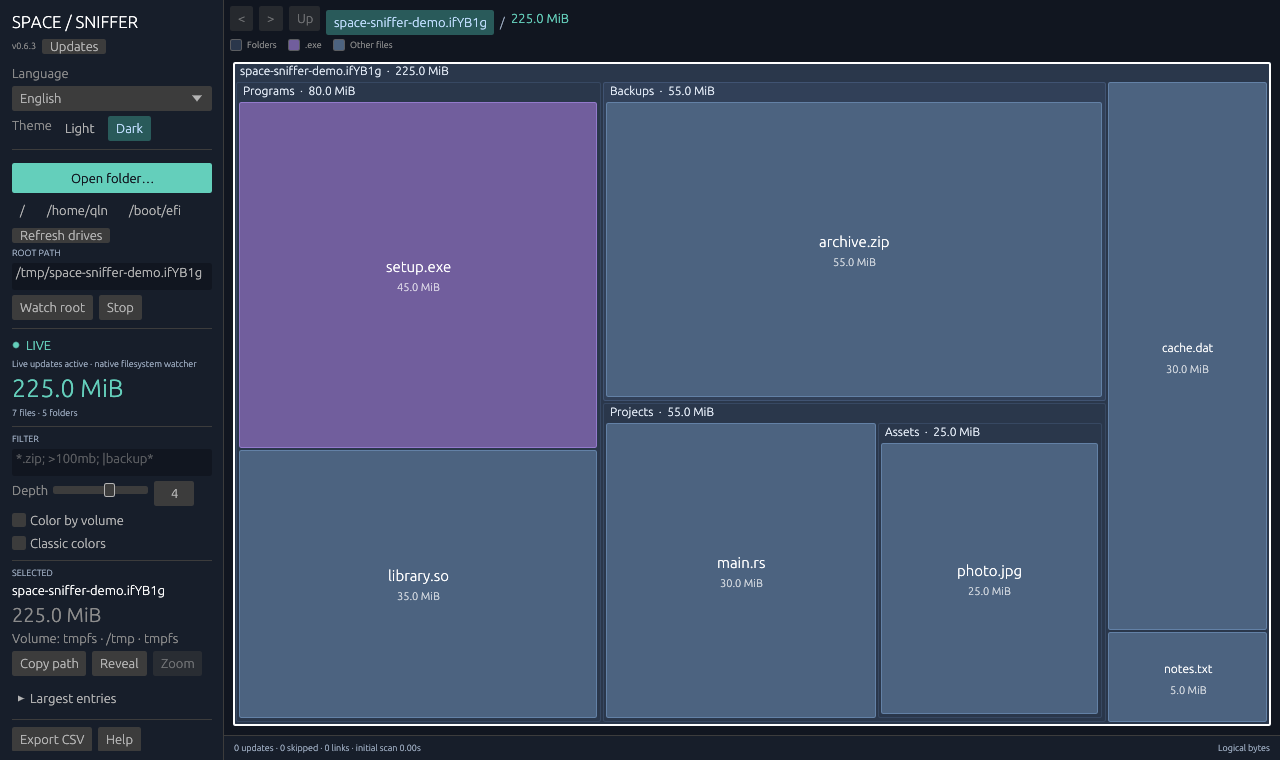
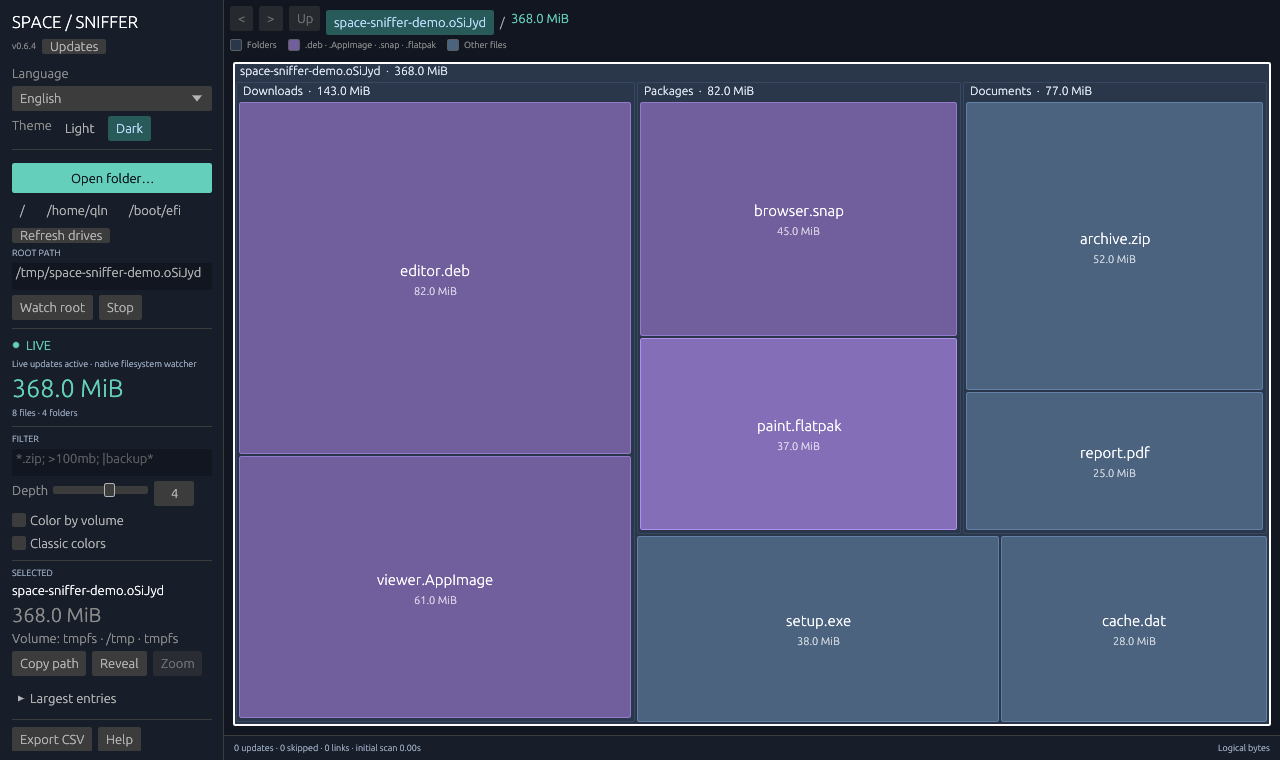
Release Space Sniffer v0.6.4
Highlight Linux application packages and portable apps in the treemap.

diff --git a/src/app.rs b/src/app.rs
@@ -1430,11 +1430,12 @@ impl App {
     fn file_legend(&self, ui: &mut egui::Ui) {
         let language = self.preferences.language;
         let colors = MAP_PALETTES[usize::from(self.classic)];
+        let application_formats = APP_SUFFIXES.join(" · ");
         ui.horizontal_wrapped(|ui| {
             ui.spacing_mut().item_spacing.x = 12.0;
             for (color, label) in [
                 (colors.folder, language.text("Folders")),
-                (colors.exe, ".exe"),
+                (colors.application, application_formats.as_str()),
                 (colors.file, language.text("Other files")),
             ] {
                 ui.horizontal(|ui| {
@@ -1942,34 +1943,41 @@ fn volume_color(index: usize) -> Color32 {
 #[derive(Clone, Copy)]
 struct MapPalette {
     folder: Color32,
-    exe: Color32,
+    application: Color32,
     file: Color32,
 }
+
+const APP_SUFFIXES: &[&str] = if cfg!(target_os = "linux") {
+    &[".deb", ".AppImage", ".snap", ".flatpak"]
+} else {
+    &[".exe"]
+};
 
 const MAP_PALETTES: [MapPalette; 2] = [
     MapPalette {
         folder: Color32::from_rgb(42, 55, 75),
-        exe: Color32::from_rgb(113, 94, 157),
+        application: Color32::from_rgb(113, 94, 157),
         file: Color32::from_rgb(76, 99, 128),
     },
     MapPalette {
         folder: Color32::from_rgb(145, 108, 70),
-        exe: Color32::from_rgb(81, 128, 169),
+        application: Color32::from_rgb(81, 128, 169),
         file: Color32::from_rgb(174, 133, 88),
     },
 ];
 
 fn tile_colors(node: &Node) -> [Color32; 2] {
-    let is_exe = node.kind == EntryKind::File
-        && node
-            .path
-            .extension()
-            .is_some_and(|ext| ext.eq_ignore_ascii_case("exe"));
+    let is_application = node.kind == EntryKind::File
+        && node.path.extension().is_some_and(|extension| {
+            APP_SUFFIXES
+                .iter()
+                .any(|suffix| extension.eq_ignore_ascii_case(&suffix[1..]))
+        });
     MAP_PALETTES.map(|palette| {
         if node.is_dir() {
             palette.folder
-        } else if is_exe {
-            palette.exe
+        } else if is_application {
+            palette.application
         } else {
             palette.file
         }
@@ -1981,22 +1989,42 @@ mod tests {
     use super::*;
 
     #[test]
-    fn file_palette_distinguishes_folders_exes_and_other_files() {
+    fn file_palette_uses_application_formats_for_the_current_platform() {
         let tree = tree(0);
         let mut folder = tree.nodes[1].clone();
-        folder.path.set_file_name("folder.exe");
+        folder
+            .path
+            .set_file_name(format!("folder{}", APP_SUFFIXES[0]));
         assert_eq!(
             tile_colors(&folder),
             MAP_PALETTES.map(|palette| palette.folder)
         );
 
         let mut file = tree.nodes[2].clone();
-        for name in ["archive.zip", "library.so", "notes.txt", "no-extension"] {
+        let (application_files, foreign_format): (&[&str], &str) = if cfg!(target_os = "linux") {
+            (
+                &[
+                    "setup.DEB",
+                    "viewer.AppImage",
+                    "browser.snap",
+                    "editor.flatpak",
+                ],
+                "setup.exe",
+            )
+        } else {
+            (&["setup.EXE"], "package.deb")
+        };
+        for name in ["archive.zip", "library.so", "no-extension", foreign_format] {
             file.path.set_file_name(name);
             assert_eq!(tile_colors(&file), MAP_PALETTES.map(|palette| palette.file));
         }
-        file.path.set_file_name("setup.EXE");
-        assert_eq!(tile_colors(&file), MAP_PALETTES.map(|palette| palette.exe));
+        for name in application_files {
+            file.path.set_file_name(name);
+            assert_eq!(
+                tile_colors(&file),
+                MAP_PALETTES.map(|palette| palette.application)
+            );
+        }
     }
 
     #[test]

diff --git a/README.md b/README.md
@@ -6,9 +6,9 @@ A native, live disk usage explorer written in Rust with [egui](https://github.co
 
 [Download Windows .exe / Ubuntu .deb](https://github.com/siarheisinelnikau/space-sniffer/releases/latest) · [Ubuntu build and install](docs/ubuntu.md) · [Performance notes](docs/performance.md)
 
-![Space Sniffer on Ubuntu with dark-blue folders, purple EXE files, and gray-blue files](docs/screenshot.png)
+![Space Sniffer on Ubuntu with dark-blue folders, purple application packages, and gray-blue files](docs/screenshot.png)
 
-Space Sniffer 0.6.3 on Ubuntu, rendered by the application with an isolated sample folder. The key above the map identifies the three colors.
+Space Sniffer 0.6.4 on Ubuntu, rendered by the application with an isolated sample folder. The key above the map identifies the three colors.
 
 This is an independent implementation inspired by [SpaceSniffer by Uderzo Software](https://www.uderzo.it/main_products/space_sniffer/). It is not affiliated with Uderzo Software and does not use the original application's source code or assets.
 
@@ -144,7 +144,7 @@ Large filters show **Filtering** progress while the previous filter stays visibl
 | **Classic** | Switch the treemap palette |
 | **Copy path** / **Reveal** | Copy the selection's path / open the system file manager |
 
-The key above the map shows three colors. In the default palette, folders are dark blue, `.exe` files are purple, and all other files are gray-blue. **Classic** uses the same categories with different colors. With **Color by volume** enabled, use **Volumes in view** for the color key.
+The key above the map shows three colors. In the default palette, folders are dark blue, application files are purple, and other files are gray-blue. On Ubuntu and other Linux systems, the application category includes `.deb`, `.AppImage`, `.snap`, and `.flatpak` files. Windows highlights `.exe` files. **Classic** uses the same categories with different colors. With **Color by volume** enabled, use **Volumes in view** for the color key.
 
 Zero-byte entries are available in the list but have no treemap area. During scanning, the inspector lists up to 100 discovered children; after completion it lists up to 100 of the largest children.
 

diff --git a/docs/release-notes/v0.6.4.md b/docs/release-notes/v0.6.4.md
@@ -1,0 +1,11 @@
+# Space Sniffer v0.6.4
+
+The Linux treemap highlights application packages and portable apps in its three-color palette.
+
+## Fixed
+
+- On Ubuntu and other Linux systems, the purple category covers `.deb`, `.AppImage`, `.snap`, and `.flatpak` files. The key shows those extensions. On Windows, the same category covers `.exe` files.
+
+## Download and upgrade
+
+Use `SpaceSniffer-v0.6.4-ubuntu-amd64.deb` on Ubuntu x86-64 or `SpaceSniffer-v0.6.4-windows-amd64.exe` on Windows x86-64.
